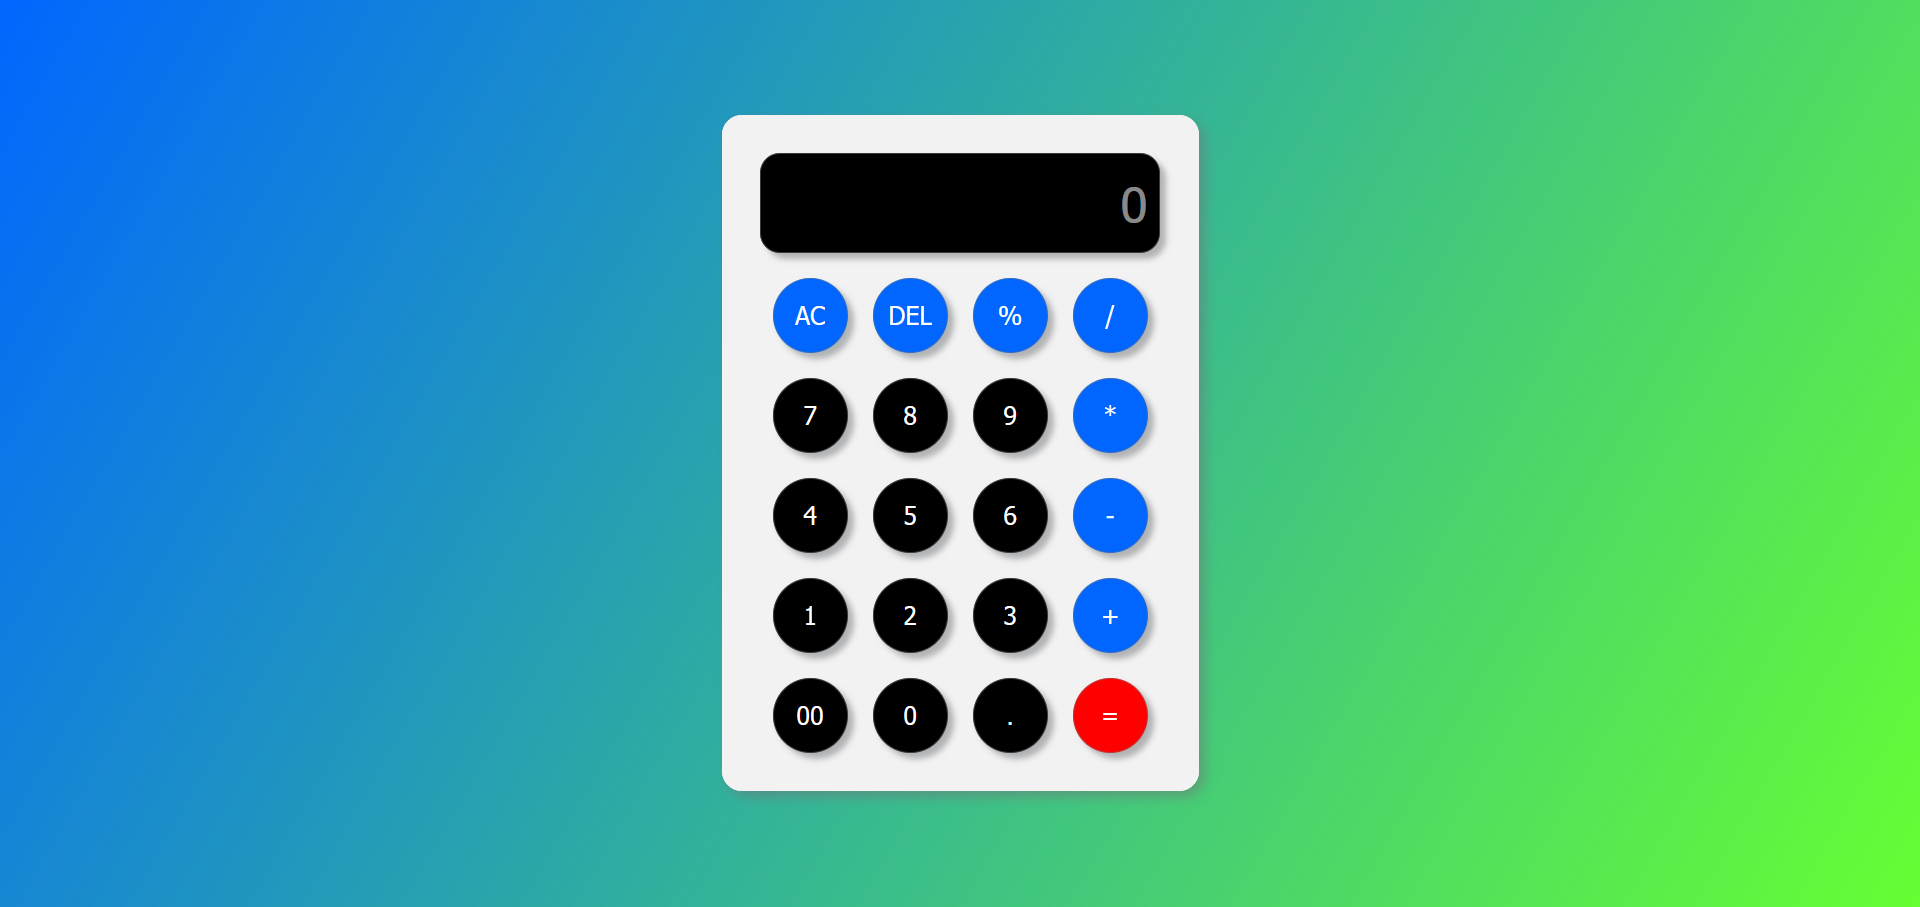
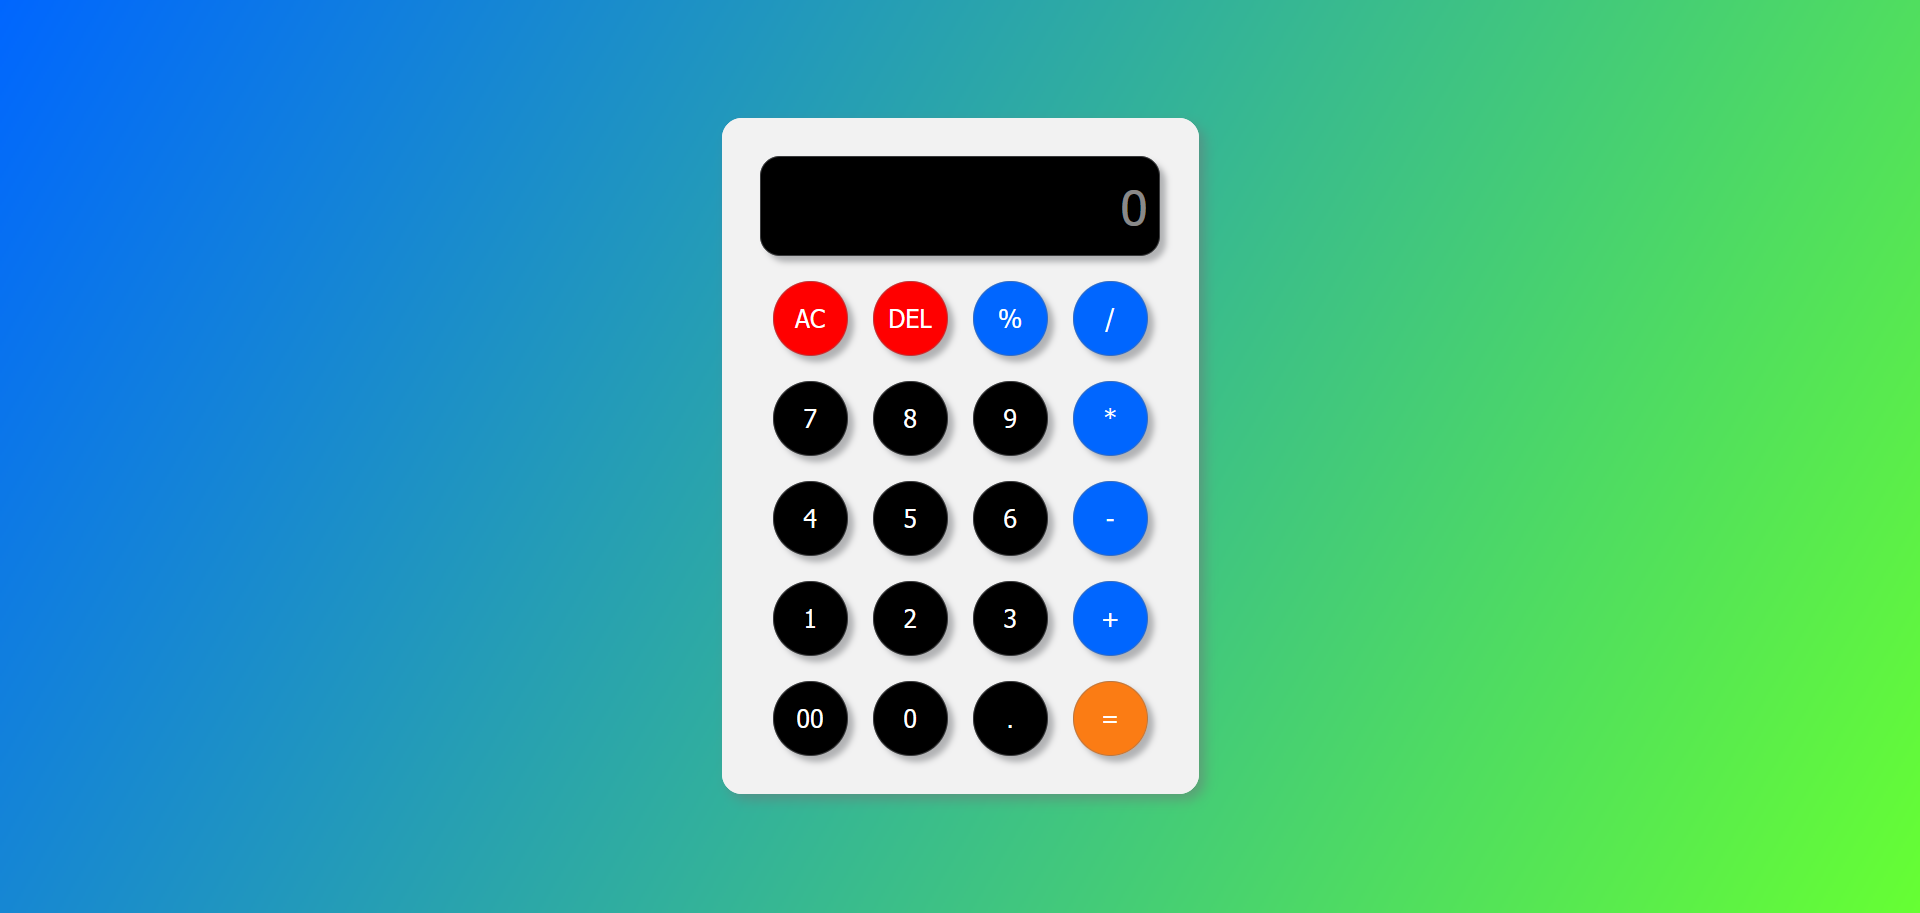
UI changed & mobile view handled

diff --git a/style.css b/style.css
@@ -17,9 +17,8 @@ body{
     border: 1px solid #f2f2f2;
     padding: 20px;
     border-radius: 16px;
-    /* background: #717377; */
     background: #f2f2f2;
-    box-shadow: 0px 3px 15px rgba(113, 115, 119, 0.5);
+    box-shadow: 5px 5px 10px rgba(113, 115, 119, 0.5);
     display: flex;
     flex-direction: column;
     align-items: center;
@@ -39,13 +38,11 @@ body{
     align-items: center;
     justify-content: center;
     width: 320px;
-    border: 1px solid #f2f2f2;
+    border: 1px solid rgba(113, 115, 119, 0.5);
     padding: 15px;
     margin: 10px;
-    /* background: #717377; */
     background: #000000;
-    box-shadow: 0px 3px 15px rgbs(84, 84, 84, 0.1);
-    font-size: 40px;
+    box-shadow: 5px 5px 5px rgba(113, 115, 119, 0.5);
     text-align: right;
     cursor: pointer;
     border-radius: 16px;
@@ -54,7 +51,6 @@ body{
 input{
     width: 300px;
     border: none;
-    /* background: #717377; */
     background: #000000;
     text-align: right;
     font-size: 40px;
@@ -70,24 +66,72 @@ input::placeholder{
 }
 
 button{
-    border: 1px solid #f2f2f2;
+    border: 1px solid rgba(113, 115, 119, 0.5);
     width: 60px;
     height: 60px;
     margin: 10px;
     border-radius: 50%;
-    /* background: #717377; */
     background: #000000;
     color: #ffffff;
     font-size: 20px;
-    box-shadow: -8px -8px 15px rgba(255, 255, 255, 0.1);
+    box-shadow: 5px 5px 5px rgba(113, 115, 119, 0.5);
     cursor: pointer;
 }
 
-.operator{
+.clear-btn{
+    background: red;
+}
+
+.operator-btn{
     background: #0066ff;
-    /* background: #fb7c14; */
 }
 
 .equal-btn{
-    background: red;
+    background: #fb7c14;
+}
+
+@media (max-width: 992px) {
+    .wrapper{
+        padding: 5px;
+    }
+
+    .input-wrapper{
+        width: 300px;
+        padding: 5px;
+    }
+
+    input{
+        width: 280px;
+        font-size: 30px;
+    }
+
+    button{
+        width: 48px;
+        height: 48px;
+        margin: 10px;
+    }
+
+}
+
+@media (max-width: 480px) {
+    .wrapper{
+        padding: 5px;
+    }
+
+    .input-wrapper{
+        width: 250px;
+        padding: 5px;
+    }
+
+    input{
+        width: 230px;
+        font-size: 30px;
+    }
+
+    button{
+        width: 45px;
+        height: 45px;
+        margin: 10px;
+    }
+
 }

diff --git a/index.html b/index.html
@@ -18,28 +18,28 @@
             <input type="text" id="input-box2">
         </div>
         <div class="row">
-            <button class="operator">AC</button>
-            <button class="operator">DEL</button>
-            <button class="operator">%</button>
-            <button class="operator">/</button>
+            <button class="clear-btn">AC</button>
+            <button class="clear-btn">DEL</button>
+            <button class="operator-btn">%</button>
+            <button class="operator-btn">/</button>
         </div>
         <div class="row">
             <button>7</button>
             <button>8</button>
             <button>9</button>
-            <button class="operator">*</button>
+            <button class="operator-btn">*</button>
         </div>
         <div class="row">
             <button>4</button>
             <button>5</button>
             <button>6</button>
-            <button class="operator">-</button>
+            <button class="operator-btn">-</button>
         </div>
         <div class="row">
             <button>1</button>
             <button>2</button>
             <button>3</button>
-            <button class="operator">+</button>
+            <button class="operator-btn">+</button>
         </div>
         <div class="row">
             <button>00</button>
